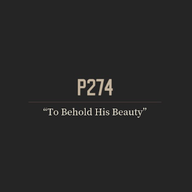
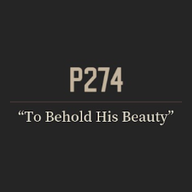
Add files via upload

Changed region(s): [[0.0938, 0.5625, 0.875, 0.6562], [0.3438, 0.3438, 0.6562, 0.5], [0.875, 0.5625, 0.9062, 0.5938]]

diff --git a/sw.js b/sw.js
@@ -1,8 +1,8 @@
-const CACHE_NAME = 'parashat-tracker-v8';
+const CACHE_NAME = 'parashat-tracker-v9';
 const urlsToCache = [
   './',
   './index.html',
-  './style.css?v=8',
+  './style.css?v=9',
   './bible-data.js',
   './hebcal.js',
   './generator.js',

diff --git a/index.html b/index.html
@@ -11,7 +11,7 @@
   <meta name="apple-mobile-web-app-title" content="p274 reading plan">
   
   <link href="https://fonts.googleapis.com/css2?family=Noto+Sans+KR:wght@400;500;700;900&family=Noto+Serif+KR:wght@700;900&family=Inter:wght@400;600;800&display=swap" rel="stylesheet">
-  <link rel="stylesheet" href="style.css?v=8">
+  <link rel="stylesheet" href="style.css?v=9">
   <link rel="manifest" href="manifest.json">
 </head>
 <body>